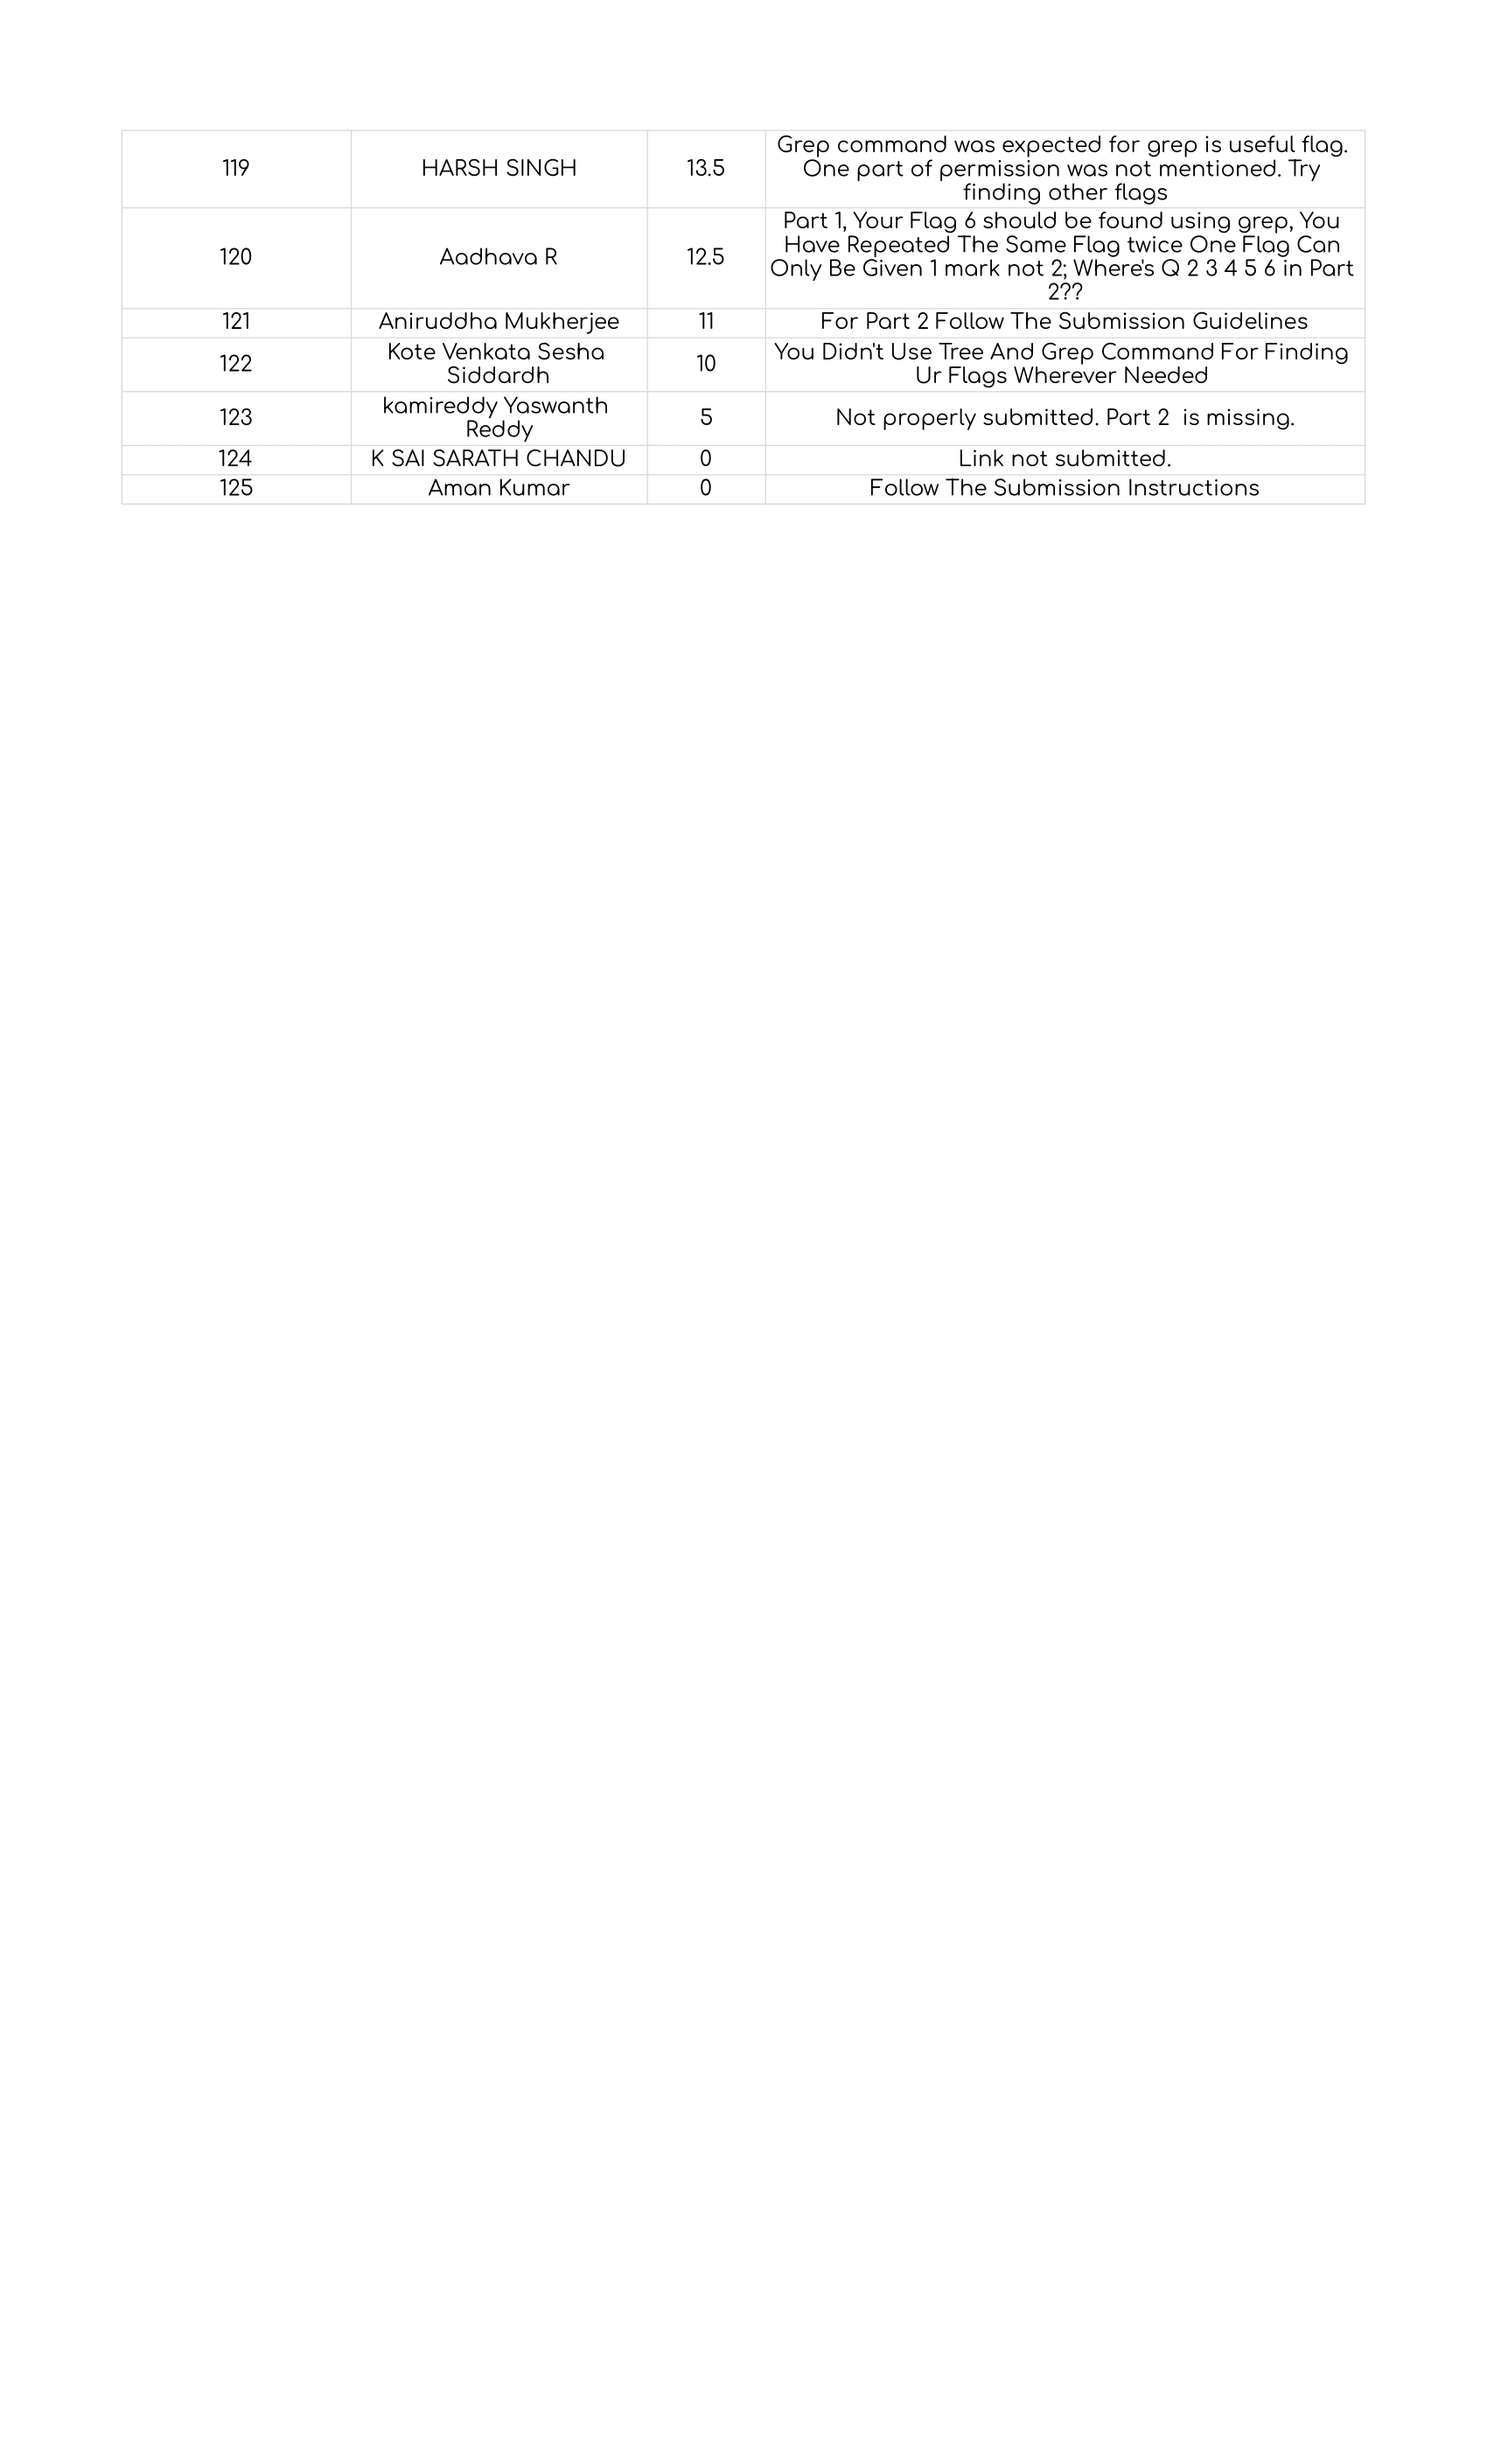
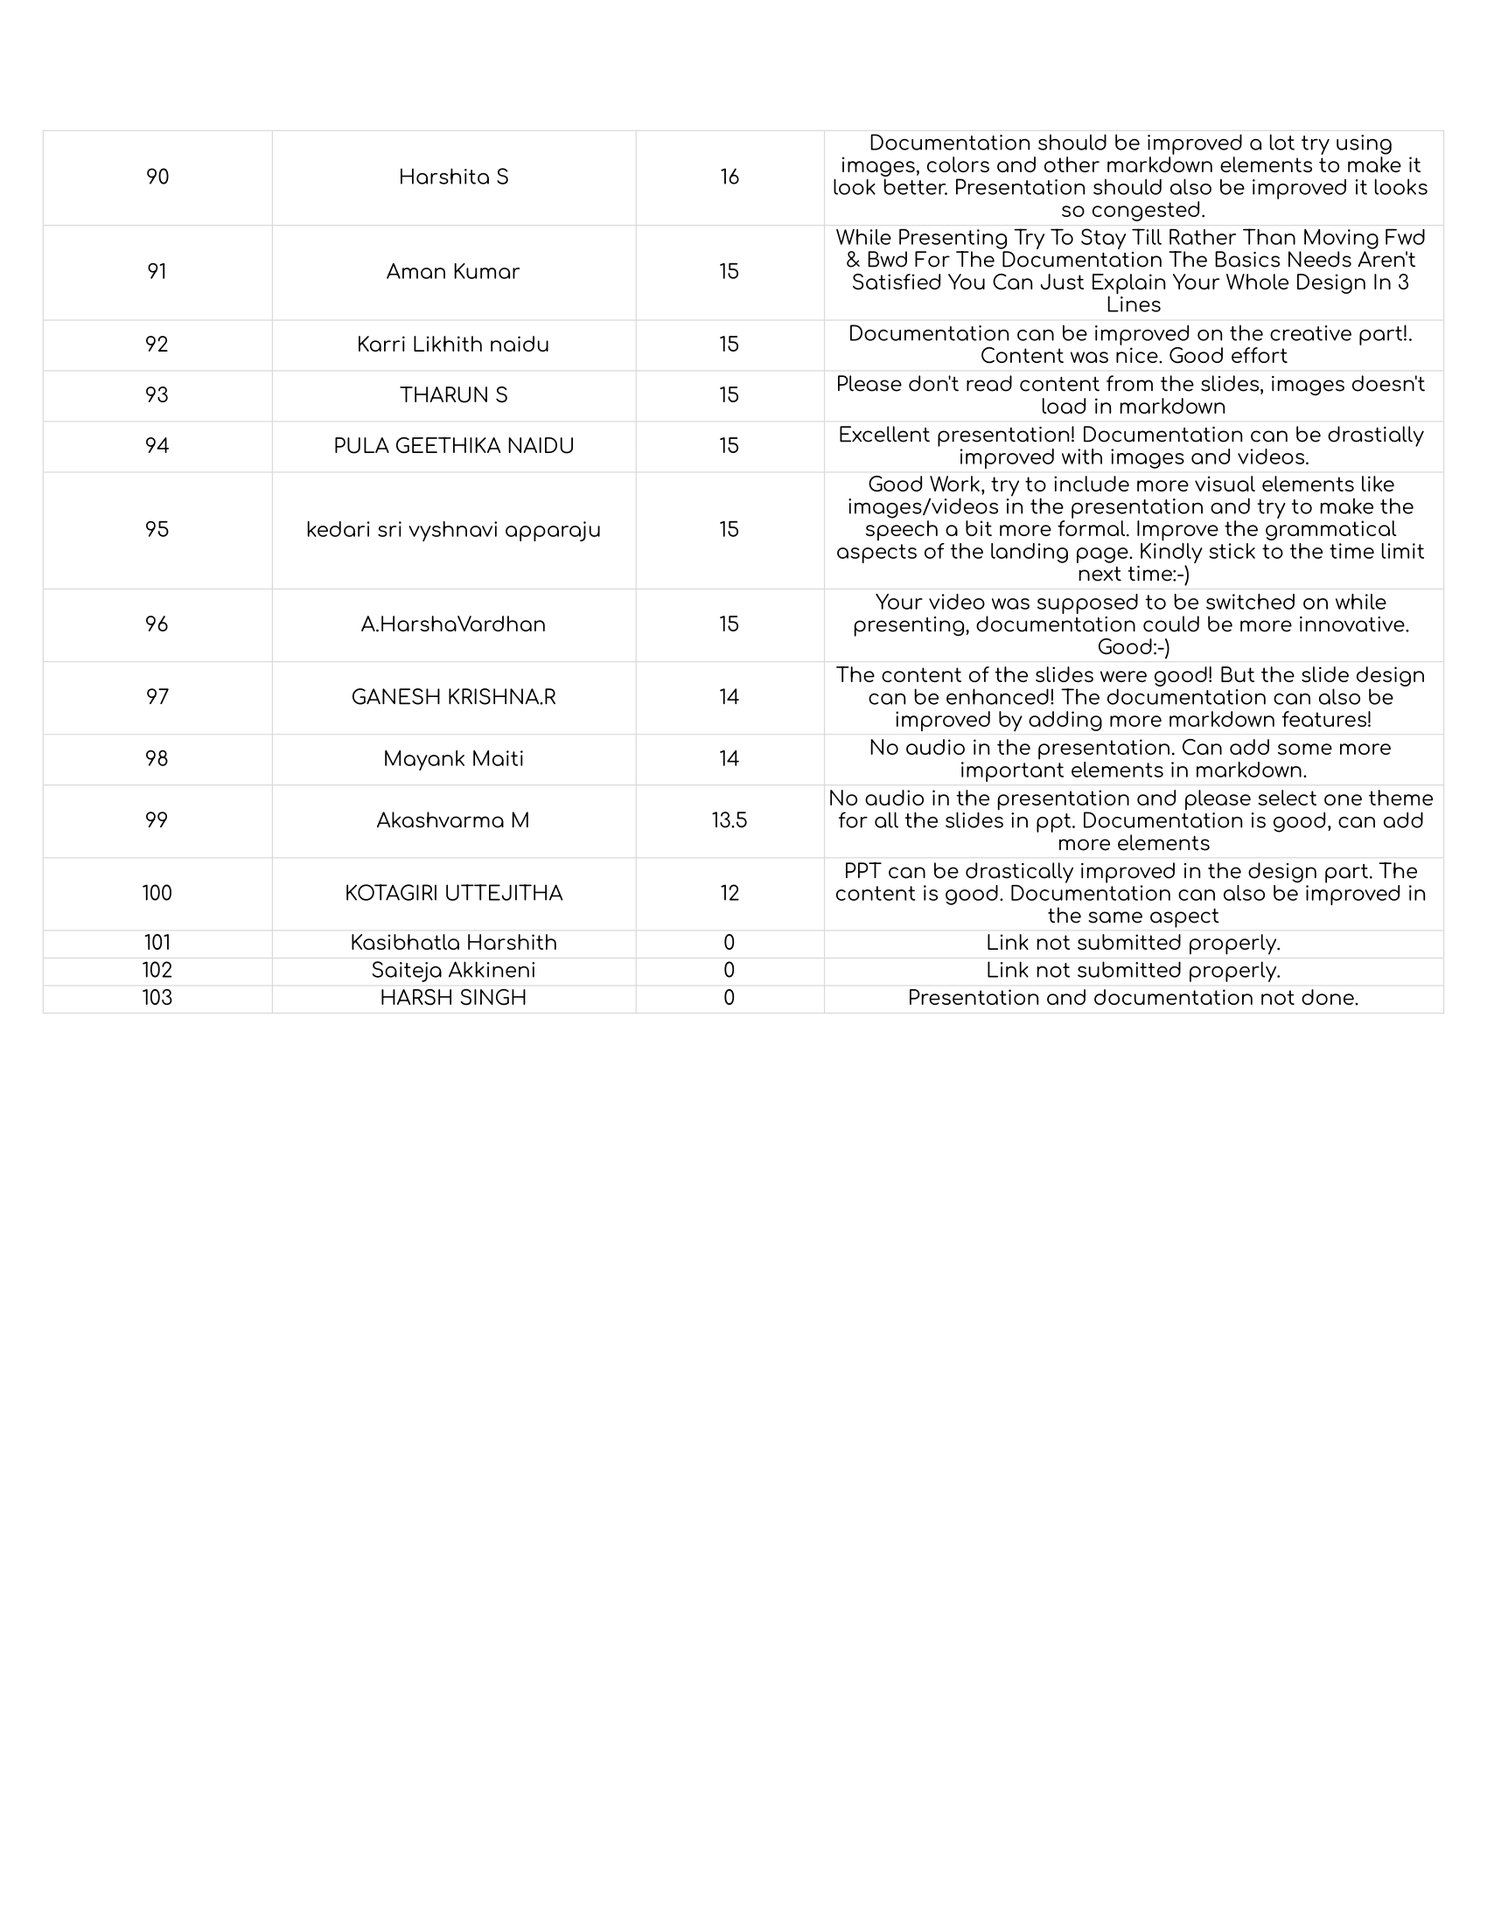
LeaderBoard For Task 6

diff --git a/source/LeaderBoard/index.md b/source/LeaderBoard/index.md
@@ -2,7 +2,7 @@
 title: LeaderBoard
 ---
 
-# Task 5 LeaderBoard
+# Task 6 LeaderBoard
 
 ![](/images/LT/1.png)
 ![](/images/LT/2.png)
